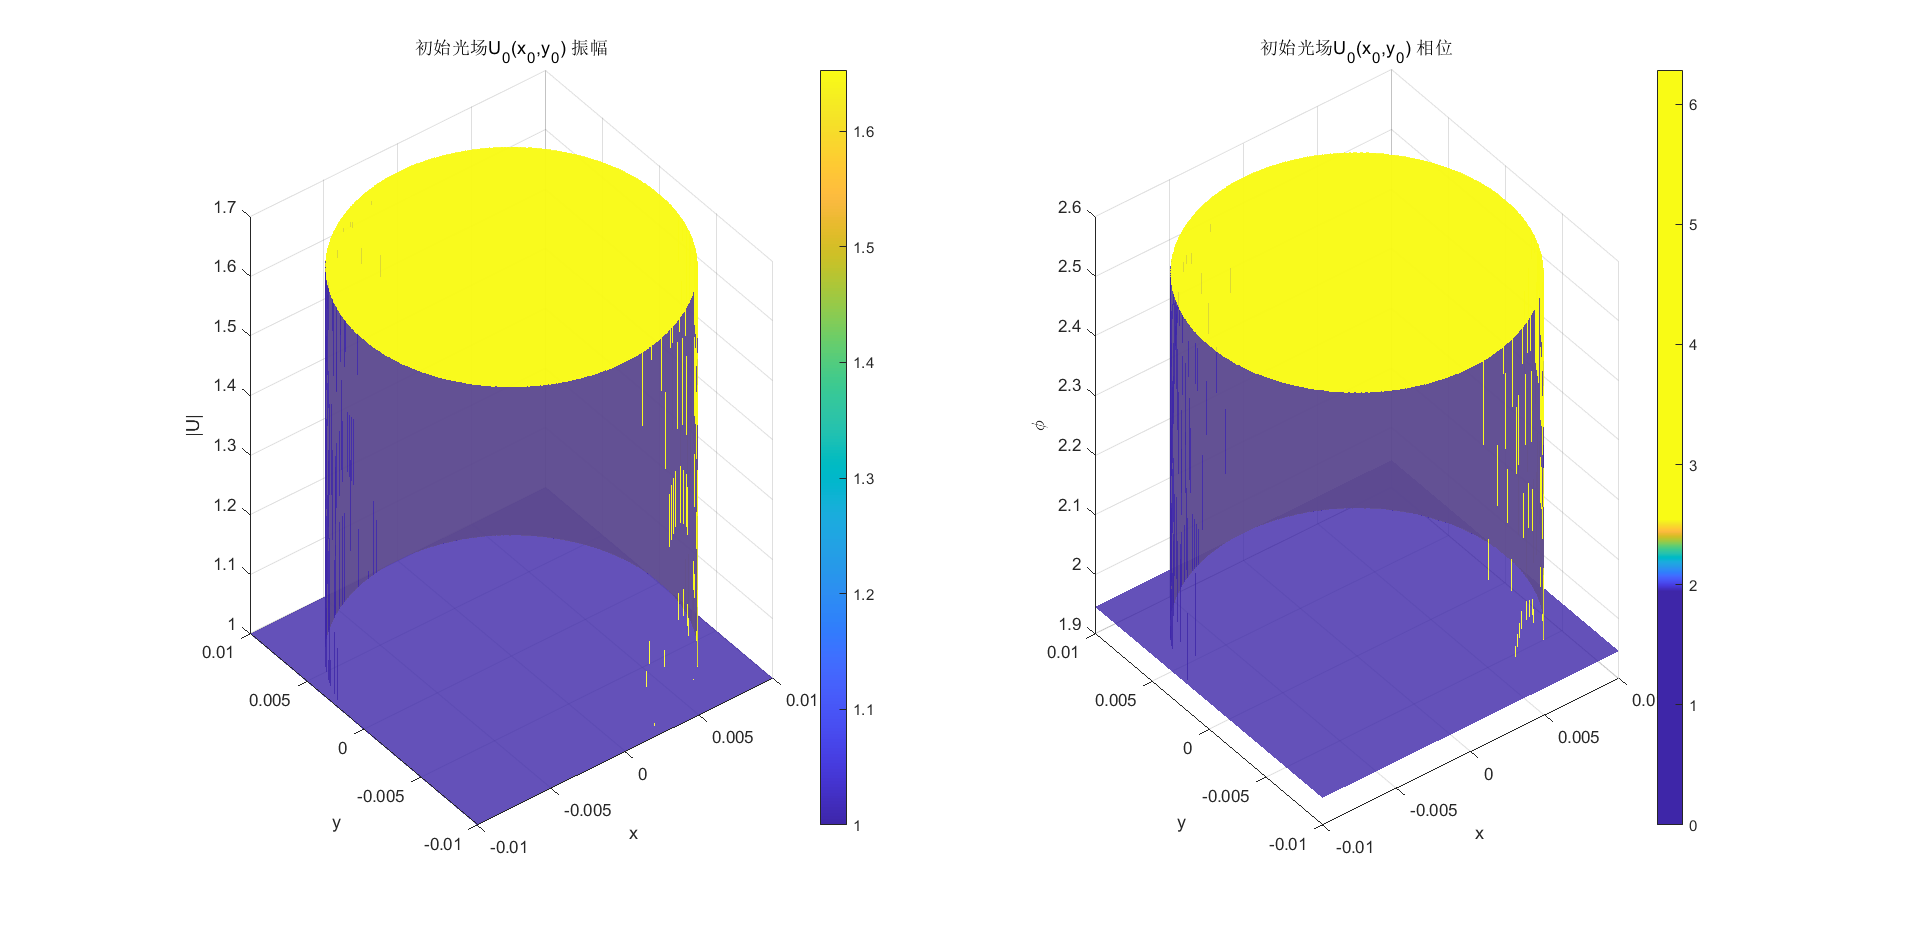
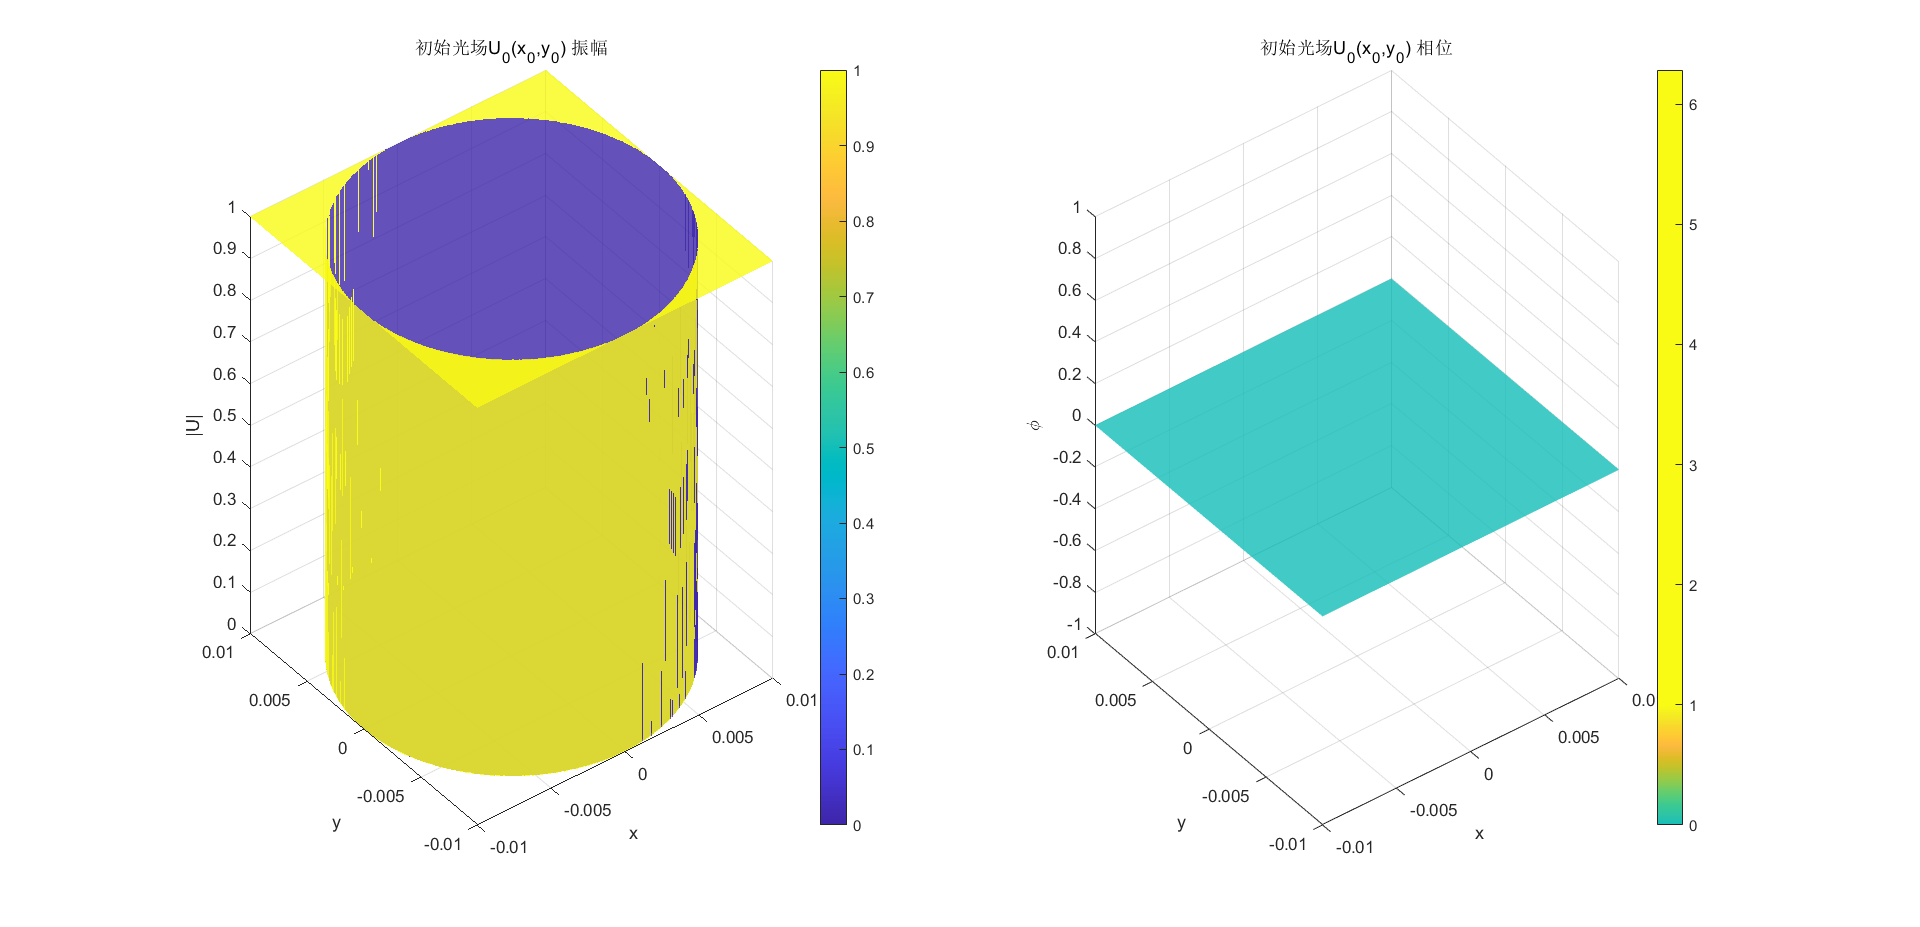
111

diff --git a/task5.m b/task5.m
@@ -24,7 +24,7 @@ N = nn;
 
 [~, Ud1, Ud] = fresnel_fft(Uc, xmin, xmax, ymin, ymax, m, n, lambda, z, Xmin, Xmax, Ymin, Ymax, M, N);
 [~, Ud2] = fraunhofer_fft(Uc, xmin, xmax, ymin, ymax, m, n, lambda, z, Xmin, Xmax, Ymin, Ymax, M, N);
-Ud = exp(1j*2*pi*z/lambda) - Ud;
+Ud = 1 - Ud;
 Ud1 = exp(1j*2*pi*z/lambda) - Ud1;
 Ud2 = exp(1j*2*pi*z/lambda) - Ud2;
 
